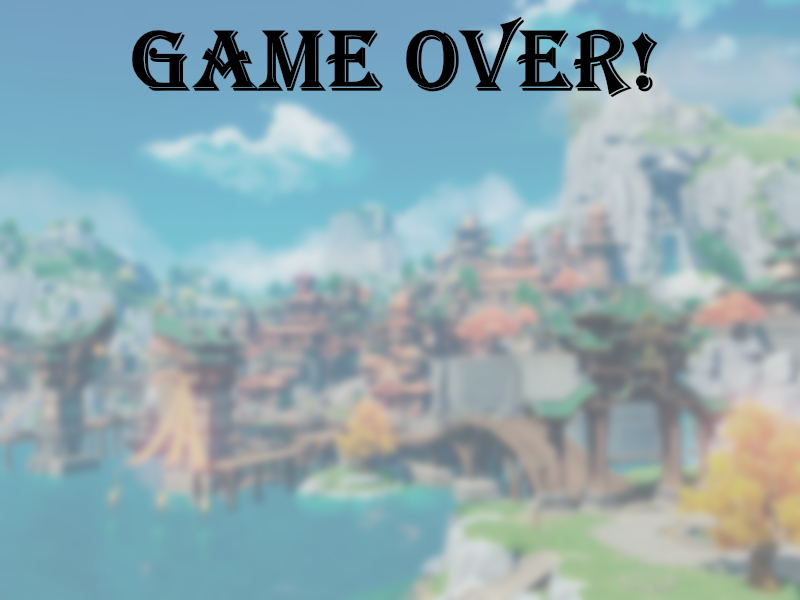
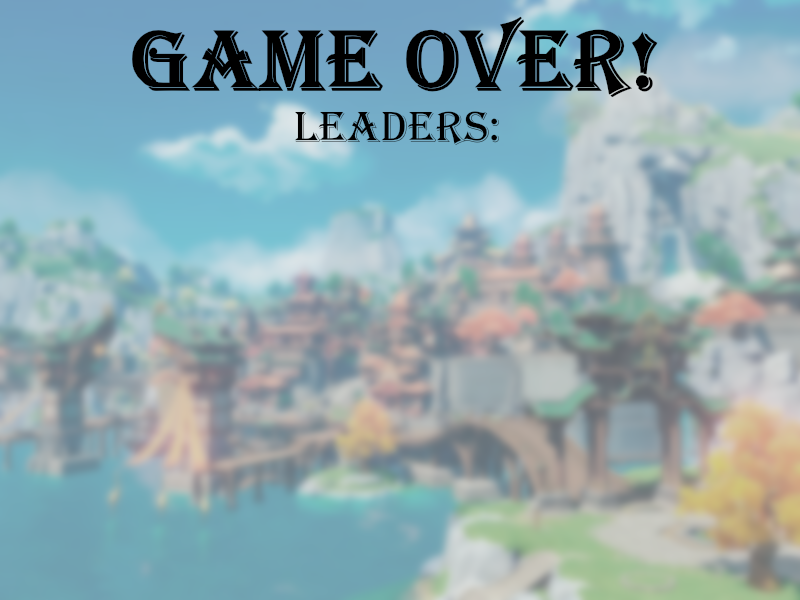
leaderboard fixed

Changed region(s): [[0.375, 0.18, 0.625, 0.24]]

diff --git a/CatchTheMora/src/main/java/Leaderboard.java b/CatchTheMora/src/main/java/Leaderboard.java
@@ -1,9 +1,9 @@
 import java.io.*;
-import java.nio.file.Files;
 import java.util.*;
 
 public class Leaderboard {
     File file;
+    Map<String, Integer> sortedLeaderboard;
 
     public Leaderboard(String player, Integer score) {
         file = new File("src\\main\\leaderboard.txt");
@@ -11,7 +11,6 @@ public class Leaderboard {
         Map<String, Integer> leaderboard = new HashMap<>();
         try {
             FileReader fr = new FileReader(file);
-            FileWriter writer = new FileWriter(file);
             BufferedReader reader = new BufferedReader(fr);
             String line = reader.readLine();
             while (line != null) {
@@ -19,39 +18,33 @@ public class Leaderboard {
                 line = reader.readLine();
             }
 
-        } catch (FileNotFoundException e) {
-            e.printStackTrace();
         } catch (IOException e) {
             e.printStackTrace();
         }
-
-
 
         for (String l: lines) {
-            String i = l.split(" ")[2];
-            leaderboard.put(l.split(" ")[1], Integer.parseInt(l.split(" ")[2]));
+            leaderboard.put(l.split(" ")[0], Integer.parseInt(l.split(" ")[1]));
         }
 
-        if (leaderboard.containsKey(player) && leaderboard.get(player) < score)
+        if (!leaderboard.containsKey(player) || leaderboard.get(player) < score) {
+            lines.removeIf(l -> l.startsWith(player + " "));
             leaderboard.put(player, score);
+            lines.add(player + " " + score);
+        }
+
 
         Map<String, Integer> temp = sortByValue(leaderboard);
-        Map<String, Integer> sortedLeaderboard = invertMap(temp);
+        sortedLeaderboard = invertMap(temp);
 
         try {
-            new FileWriter(file, false).close();
             FileWriter writer = new FileWriter(file);
-            Iterator it = sortedLeaderboard.entrySet().iterator();
-            while (it.hasNext()) {
-                Map.Entry pair = (Map.Entry)it.next();
-                writer.write(pair.getKey() + " " + pair.getValue() + "\n");
+            for (String l : lines) {
+                writer.write(l + "\n");
             }
+            writer.close();
         } catch (IOException e) {
             e.printStackTrace();
         }
-
-
-
     }
 
     private static Map<String, Integer> sortByValue(Map<String, Integer> unsortedMap) {
@@ -86,5 +79,16 @@ public class Leaderboard {
             if (i <= 5) invertedMap.put(entry.getKey(), entry.getValue());
         }
         return invertedMap;
+    }
+
+    public Map<String, Integer> returnLeaderboard() {
+        return sortedLeaderboard;
+    }
+
+    public static <K, V> void printMap(Map<K, V> map) {
+        for (Map.Entry<K, V> entry : map.entrySet()) {
+            System.out.println("Key : " + entry.getKey()
+                    + " Value : " + entry.getValue());
+        }
     }
 }

diff --git a/CatchTheMora/src/main/java/EndgameWindow.java b/CatchTheMora/src/main/java/EndgameWindow.java
@@ -8,7 +8,6 @@ import java.io.IOException;
 import java.util.*;
 
 public class EndgameWindow extends JFrame {
-private Map <String, Integer> leaders;
 private Image background;
 
     public EndgameWindow(String player, Integer score) {
@@ -24,6 +23,24 @@ private Image background;
         setResizable(false);
         setDefaultCloseOperation(EXIT_ON_CLOSE);
         Container con = this.getContentPane();
+
+        Leaderboard leaderboard = new Leaderboard(player, score);
+        Map<String, Integer> leaders = leaderboard.returnLeaderboard();
+        JTextArea players = new JTextArea();
+        JTextArea scores = new JTextArea();
+        int i = 1;
+        for (Map.Entry<String, Integer> entry : leaders.entrySet()) {
+            players.append(i + ". " + entry.getKey() + "\n");
+            scores.append(entry.getValue().toString() + "\n");
+            i ++;
+        }
+        players.setBounds(20, 150, 650, 360);
+        players.setFont(new Font("Times New Roman", Font.PLAIN, 50));
+        con.add(players);
+        scores.setBounds(690, 150, 80, 360);
+        scores.setFont(new Font("Times New Roman", Font.PLAIN, 50));
+        con.add(scores);
+
         //  начать игру заново
         JButton replay = new JButton("Start again");
         replay.setBounds(20, 520, 360, 40);
@@ -45,8 +62,5 @@ private Image background;
                 System.exit(0);
             }
         });
-
     }
-
-
 }

diff --git a/CatchTheMora/src/main/java/GameWindow.java b/CatchTheMora/src/main/java/GameWindow.java
@@ -80,7 +80,7 @@ public class GameWindow extends JFrame {
             super.paintComponent(gr);
             gr.drawImage(background, 0, 0, null);
             gr.drawImage(character, x, 400, null);
-            gr.setFont(new Font("", Font.BOLD, 20));
+            gr.setFont(new Font("Times New Roman", Font.PLAIN, 20));
             gr.drawString("Score: " + score, 0, 580);
             if (lives == 3) gr.drawImage(lives3, 0, 0, null);
             if (lives == 2) gr.drawImage(lives2,0, 0, null);
